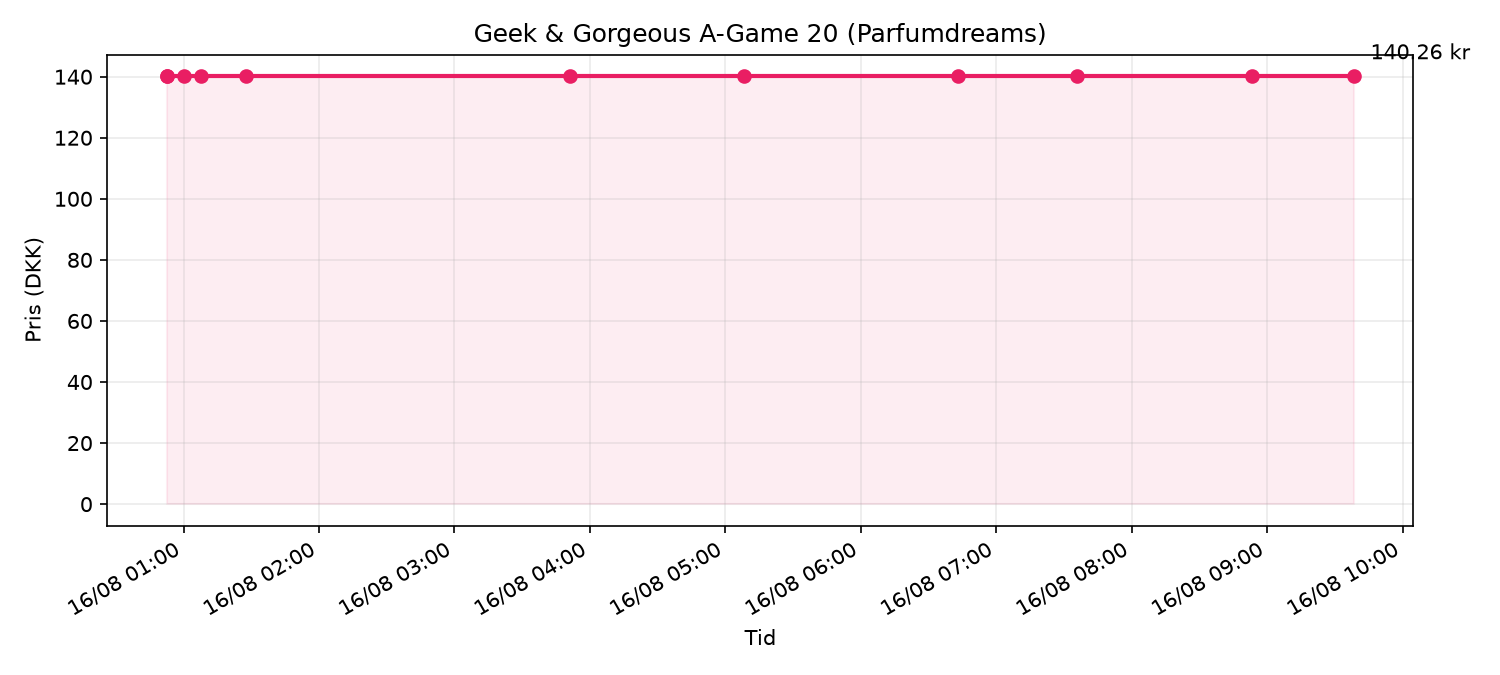
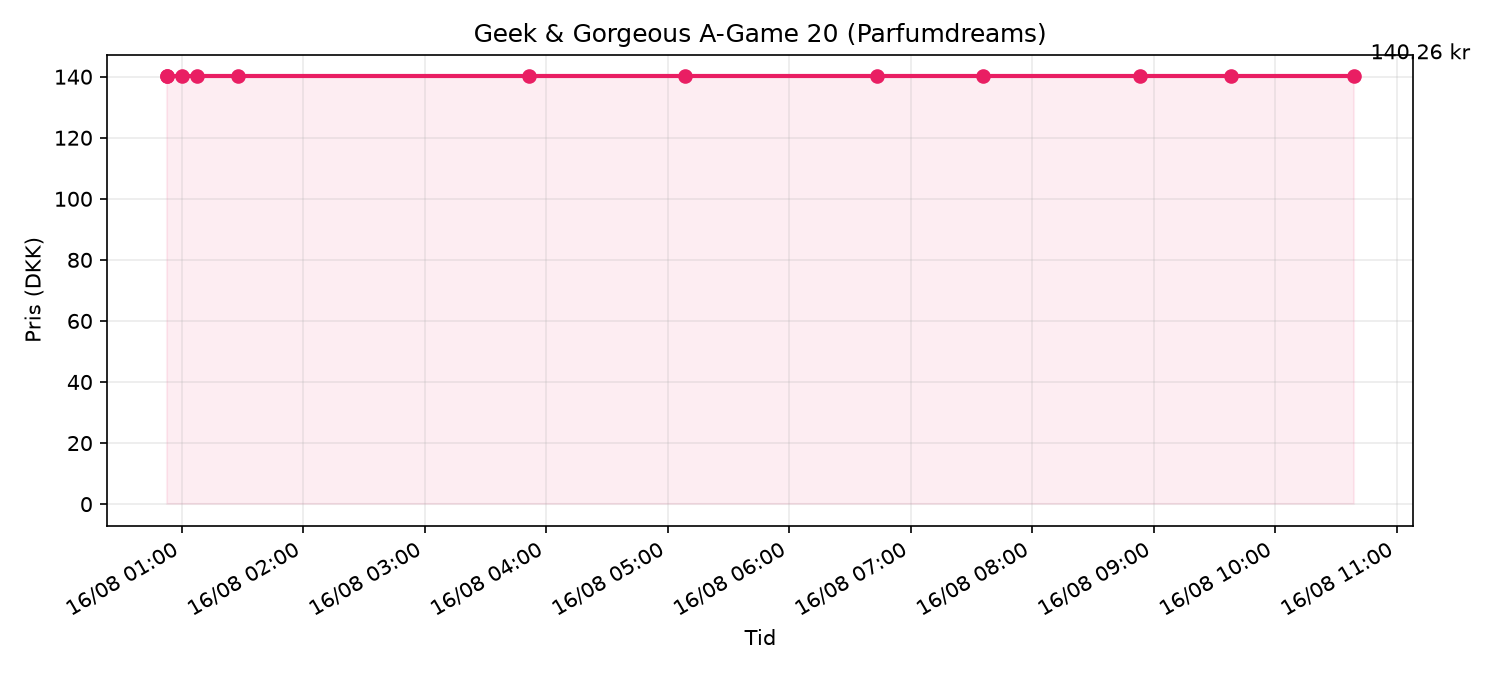
price check 2026-08-16T08:38Z

diff --git a/data/price_chart.html b/data/price_chart.html
@@ -13,7 +13,7 @@
 </head>
 <body>
   <h1>Geek & Gorgeous A-Game 20 (Parfumdreams)</h1>
-  <p class="meta">Senest tjekket: 16/08/2026 09:38 · Pris: <strong>140.26 kr</strong> · på lager</p>
+  <p class="meta">Senest tjekket: 16/08/2026 10:38 · Pris: <strong>140.26 kr</strong> · på lager</p>
   
   <p><a href="https://www.parfumdreams.dk/Geek-Gorgeous/Samlinger/101-aktive-stoffer/A-Game-20-Serum/index_137083.aspx?variation=221879">Åbn produkt på Parfumdreams</a></p>
   <img src="price_chart.png" alt="Prisgraf">
